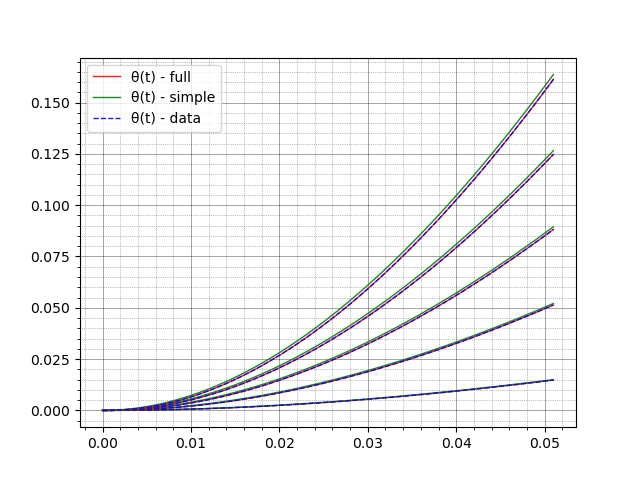
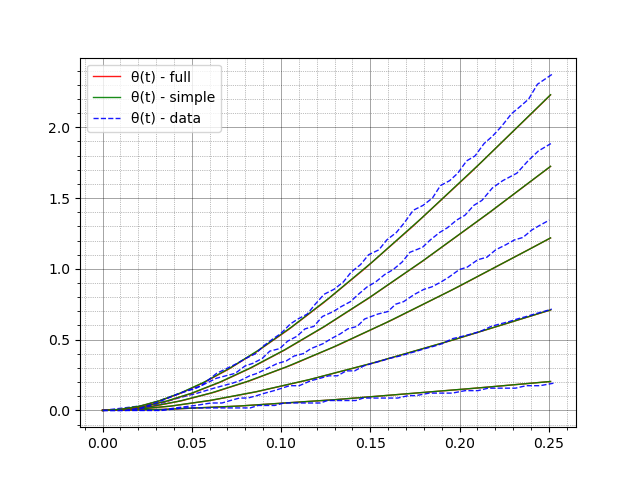
Bugfix

diff --git a/RobotLab2/SciLab/PlotThetaDiff.py b/RobotLab2/SciLab/PlotThetaDiff.py
@@ -11,20 +11,22 @@ def ReadFile(name, cols=2):
         v = [float(i) for i in line.split()]
         for i in range(cols):
             ret[i].append(v[i])
-        if ret[1][-1] > 0.05:
+        if ret[1][-1] > 0.25:
             break;
     return ret
 
 colors = ['r', 'g', '--b']
 
-for idx in range(1, 10, 2):
+for idx in range(-10, -1, 2):
     simple = ReadFile('../Sim/Theta_simply_Sim' + str(idx * 10) + '.txt')
     full   = ReadFile('../Sim/ThetaSim' + str(idx * 10) + '.txt')
-    data   = ReadFile('../Sim/ThetaSim' + str(idx * 10) + '.txt')
+    data   = ReadFile('../Data/log' + str(idx * 10) + '.txt')
+    
+    data[0] = [ i * 0.017453292 for i in data[0]]
 
-    plt.plot(full[1], full[0], colors[0], alpha=0.9, linewidth=1, label=('θ(t) - full' if idx == 1 else ''))
-    plt.plot(simple[1], simple[0], colors[1], alpha=0.9, linewidth=1, label=('θ(t) - simple' if idx == 1 else ''))
-    plt.plot(data[1], data[0], colors[2], alpha=0.9, linewidth=1, label=('θ(t) - data' if idx == 1 else ''))
+    plt.plot(full[1], full[0], colors[0], alpha=0.9, linewidth=1, label=('θ(t) - full' if idx == -10 else ''))
+    plt.plot(simple[1], simple[0], colors[1], alpha=0.9, linewidth=1, label=('θ(t) - simple' if idx == -10 else ''))
+    plt.plot(data[1], data[0], colors[2], alpha=0.9, linewidth=1, label=('θ(t) - data' if idx == -10 else ''))
 
 plt.minorticks_on()
 plt.grid(which="major", color="k", linewidth=0.5, alpha=0.5)
